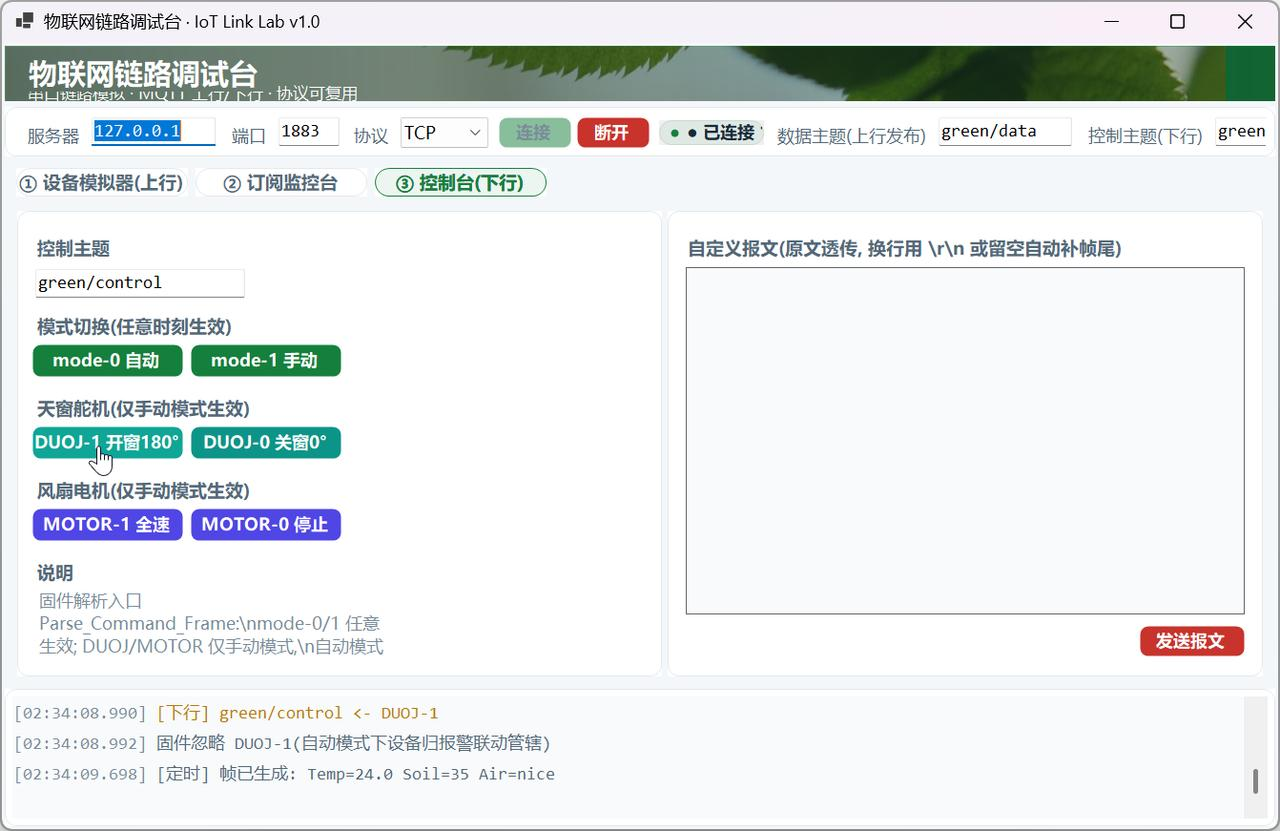
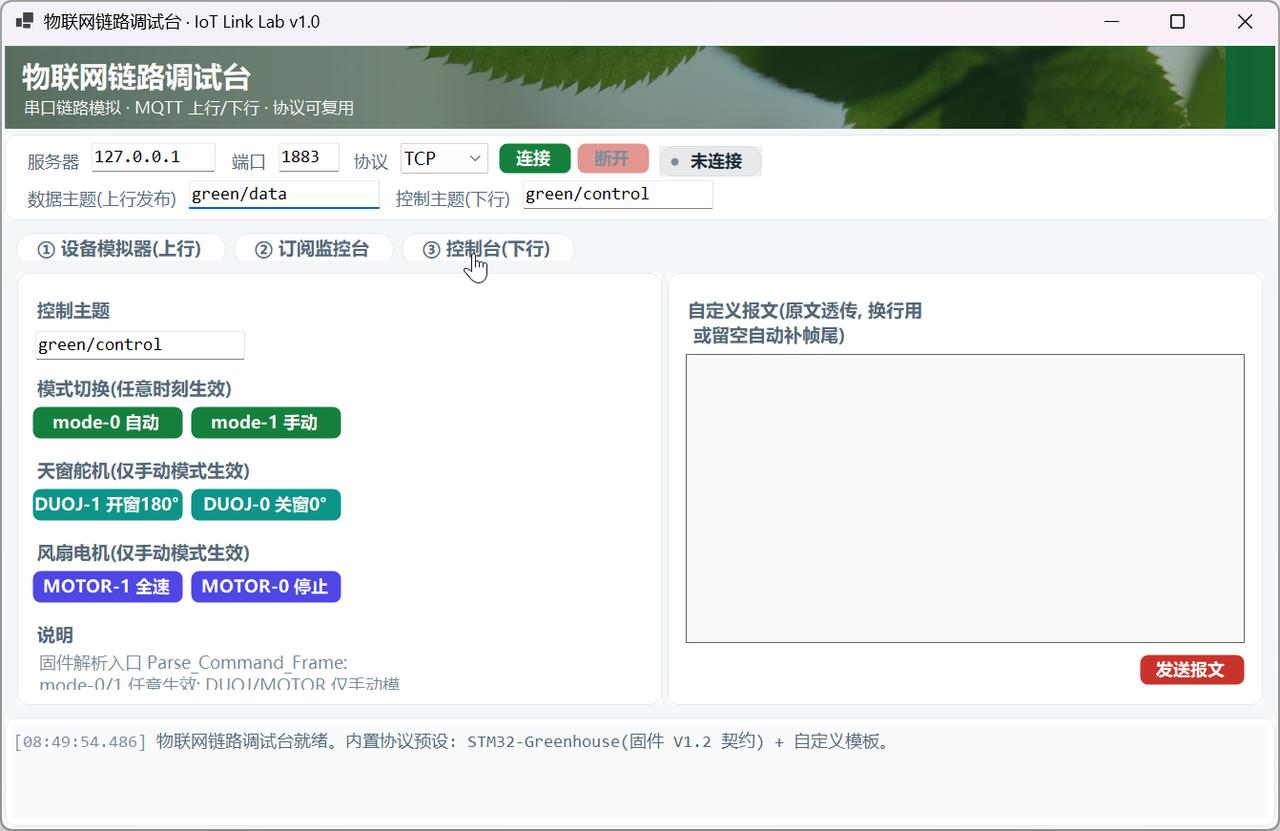
fix(测试工具): 布局错位重叠全面修复(150% DPI 实测迭代)
- 导航胶囊重影: Label 基类默认文本绘制与自绘叠加 → 新建 NavChip 控件(单绘制源, 宽度按文字实测自适应)
- 顶部横幅副标题被裁: 定高 64px 在 150% DPI 装不下两行 → 高度按字体实测计算(标题+副标题+呼吸空间), 文字绘于 Paint 内按实测高度堆叠居中
- 连接栏超宽截断('控制主题'只剩 g): 单行 FlowLayout 拆两行 TLP(连接参数行 + 数据/控制主题行), 主题框加宽至 200
- 状态徽章圆点与文字重叠: SetState 剥离 '● ' 前缀(圆点由控件绘制), 宽度按文字自适应
- 左列滚动/裁切: 数字网格 3×2 横排(高度砍半), 段标题边距收紧, raw 值不再被固定行高裁掉
- 帧模板编辑器移至右列第三视图区(随卡片宽度自适应换行 + 滚动兜底), 右列 32/38/30 三段, 彻底消除标题与内容间大空隙与模板框切行
- 监控台 400 条封顶后不再追加 → 滚动窗口移除最旧
- 控制台说明文字缩短为两行 + AutoSize
- 三页截图(1360 窗口)与最大化实测更新入库

diff --git a/05-Testing-Tool/WinFormsApp1/SimulatorTab.cs b/05-Testing-Tool/WinFormsApp1/SimulatorTab.cs
@@ -66,22 +66,20 @@ namespace IotLinkLab
             leftFlow.Controls.Add(_sceneCombo);
 
             leftFlow.Controls.Add(MakeSection("基础数值(场景选定后可微调)"));
-            var grid = new TableLayoutPanel { Width = 340, Height = 104, ColumnCount = 4, RowCount = 2, BackColor = Color.Transparent, Margin = new Padding(0, 2, 0, 2) };
-            for (int i = 0; i < 4; i++) grid.ColumnStyles.Add(new ColumnStyle(SizeType.Percent, 25f));
-            (_numTemp, _) = MakeNum("温度°C", 0, 100, 24, 0, grid, 0, 0);
-            (_numHumi, _) = MakeNum("湿度%RH", 0, 100, 62, 0, grid, 1, 0);
-            (_numSoil, _) = MakeNum("土壤%", 0, 100, 35, 0, grid, 2, 0);
-            (_numLight, _) = MakeNum("光照%", 0, 100, 72, 0, grid, 3, 0);
-            (_numRaw, _) = MakeNum("raw值", 0, 4095, 2080, 0, grid, 0, 1);
-            _numRaw.Width -= 20;
+            // 数字网格: 3 列 × 2 行, 标签与控件同行横排 —— 纵向高度砍半, 左列无需滚动
+            var grid = new TableLayoutPanel { AutoSize = true, AutoSizeMode = AutoSizeMode.GrowAndShrink, ColumnCount = 3, RowCount = 2, BackColor = Color.Transparent, Margin = new Padding(0, 2, 0, 2) };
+            for (int i = 0; i < 3; i++) grid.ColumnStyles.Add(new ColumnStyle(SizeType.AutoSize));
+            grid.RowStyles.Add(new RowStyle(SizeType.AutoSize));
+            grid.RowStyles.Add(new RowStyle(SizeType.AutoSize));
+            (_numTemp, _) = MakeNum("温度°C", 0, 100, 24, grid, 0, 0);
+            (_numHumi, _) = MakeNum("湿度%RH", 0, 100, 62, grid, 1, 0);
+            (_numSoil, _) = MakeNum("土壤%", 0, 100, 35, grid, 2, 0);
+            (_numLight, _) = MakeNum("光照%", 0, 100, 72, grid, 0, 1);
+            (_numRaw, _) = MakeNum("raw值", 0, 4095, 2080, grid, 1, 1);
             leftFlow.Controls.Add(grid);
 
-            leftFlow.Controls.Add(MakeSection("帧模板(占位符: {temp} {humi} {soil} {raw} {light} {servo} {motor} {mode} {air} {warning})"));
-            _templateBox = new TextBox { Multiline = true, Height = 56, Width = 320, Dock = DockStyle.None, Font = Theme.Mono(8.5F), Text = FrameCodec.DefaultTemplate };
-            leftFlow.Controls.Add(_templateBox);
-
             leftFlow.Controls.Add(MakeSection("发送控制"));
-            var sendRow = new FlowLayoutPanel { Width = 320, Height = 40, BackColor = Color.Transparent, Margin = new Padding(0, 2, 0, 0) };
+            var sendRow = new FlowLayoutPanel { AutoSize = true, AutoSizeMode = AutoSizeMode.GrowAndShrink, BackColor = Color.Transparent, Margin = new Padding(0, 2, 0, 0) };
             sendRow.Controls.Add(new Label { Text = "周期", AutoSize = true, Font = Theme.Ui(9F), Margin = new Padding(3, 8, 4, 0) });
             _numInterval = new NumericUpDown { Minimum = 1, Maximum = 60, Value = 1.5m, Increment = 0.5m, Width = 62, DecimalPlaces = 1, Font = Theme.Ui(9F) };
             sendRow.Controls.Add(_numInterval);
@@ -92,7 +90,7 @@ namespace IotLinkLab
             sendRow.Controls.Add(_numJitter);
             leftFlow.Controls.Add(sendRow);
 
-            var btnRow = new FlowLayoutPanel { Width = 320, Height = 40, BackColor = Color.Transparent, Margin = new Padding(0, 2, 0, 0) };
+            var btnRow = new FlowLayoutPanel { AutoSize = true, AutoSizeMode = AutoSizeMode.GrowAndShrink, BackColor = Color.Transparent, Margin = new Padding(0, 2, 0, 0) };
             _btnOnce = new RoundedButton { Text = "手动发一帧", Width = 110, FillColor = Theme.Teal };
             _btnOnce.Click += (s, e) => EmitFrame("手动");
             _btnStart = new RoundedButton { Text = "开始定时发送", Width = 130, FillColor = Theme.Primary };
@@ -100,8 +98,8 @@ namespace IotLinkLab
             btnRow.Controls.Add(_btnOnce); btnRow.Controls.Add(_btnStart);
             leftFlow.Controls.Add(btnRow);
 
-            leftFlow.Controls.Add(MakeSection("串口输出(可选, 配合虚拟串口对让真实上位机走完整链路)"));
-            var serRow = new FlowLayoutPanel { Width = 320, Height = 40, BackColor = Color.Transparent, Margin = new Padding(0, 2, 0, 0) };
+            leftFlow.Controls.Add(MakeSection("串口输出(可选, 配合虚拟串口对)"));
+            var serRow = new FlowLayoutPanel { AutoSize = true, AutoSizeMode = AutoSizeMode.GrowAndShrink, BackColor = Color.Transparent, Margin = new Padding(0, 2, 0, 0) };
             _chkSerial = new CheckBox { Text = "同步写串口", AutoSize = true, Font = Theme.Ui(9F), Margin = new Padding(0, 8, 8, 0) };
             _comPort = new ComboBox { DropDownStyle = ComboBoxStyle.DropDownList, Width = 90, Font = Theme.Ui(9F) };
             _comBaud = new ComboBox { DropDownStyle = ComboBoxStyle.DropDownList, Width = 80, Font = Theme.Ui(9F) };
@@ -114,18 +112,23 @@ namespace IotLinkLab
 
             // ---------- 右列: 三层预览 ----------
             var right = new Card { Dock = DockStyle.Fill, Padding = new Padding(Theme.Pad) };
-            var rightLayout = new TableLayoutPanel { Dock = DockStyle.Fill, RowCount = 4, BackColor = Color.Transparent };
-            rightLayout.RowStyles.Add(new RowStyle(SizeType.AutoSize));
-            rightLayout.RowStyles.Add(new RowStyle(SizeType.Percent, 34f));
-            rightLayout.RowStyles.Add(new RowStyle(SizeType.Percent, 22f));
-            rightLayout.RowStyles.Add(new RowStyle(SizeType.Percent, 44f));
+            var rightLayout = new TableLayoutPanel { Dock = DockStyle.Fill, RowCount = 6, ColumnCount = 1, BackColor = Color.Transparent };
+            rightLayout.RowStyles.Add(new RowStyle(SizeType.AutoSize));                 // ① 标题
+            rightLayout.RowStyles.Add(new RowStyle(SizeType.Percent, 32f));            // ① 帧预览
+            rightLayout.RowStyles.Add(new RowStyle(SizeType.AutoSize));                 // ② 标题
+            rightLayout.RowStyles.Add(new RowStyle(SizeType.Percent, 38f));            // ② 解析/JSON 预览
+            rightLayout.RowStyles.Add(new RowStyle(SizeType.AutoSize));                 // ③ 标题
+            rightLayout.RowStyles.Add(new RowStyle(SizeType.Percent, 30f));            // ③ 帧模板编辑
 
             rightLayout.Controls.Add(MakeSection("① 固件帧文本(串口视角)"), 0, 0);
             _framePreview = MakePreview(Theme.Mono(9.5F));
             rightLayout.Controls.Add(_framePreview, 0, 1);
-            rightLayout.Controls.Add(MakeSection("② 解析结果(与上位机同一套正则)"), 0, 2);
+            rightLayout.Controls.Add(MakeSection("② 解析结果与发布 JSON(与上位机同一套正则)"), 0, 2);
             _jsonPreview = MakePreview(Theme.Mono(9F));
             rightLayout.Controls.Add(_jsonPreview, 0, 3);
+            rightLayout.Controls.Add(MakeSection("③ 帧模板(可编辑, 占位符在 README; 随窗口宽度自适应换行)"), 0, 4);
+            _templateBox = new TextBox { Multiline = true, Dock = DockStyle.Fill, Font = Theme.Mono(8.5F), Text = FrameCodec.DefaultTemplate, ScrollBars = ScrollBars.Vertical };
+            rightLayout.Controls.Add(_templateBox, 0, 5);
             right.Controls.Add(rightLayout);
 
             root.Controls.Add(left, 0, 0);
@@ -136,7 +139,7 @@ namespace IotLinkLab
         private Label MakeSection(string text) => new()
         {
             Text = text, AutoSize = true, Font = Theme.Ui(9.5F, bold: true),
-            ForeColor = Theme.TextSecondary, Margin = new Padding(0, 8, 0, 4), BackColor = Color.Transparent
+            ForeColor = Theme.TextSecondary, Margin = new Padding(0, 6, 0, 3), BackColor = Color.Transparent
         };
 
         private TextBox MakePreview(Font font) => new()
@@ -145,11 +148,11 @@ namespace IotLinkLab
             Font = font, BorderStyle = BorderStyle.FixedSingle, ScrollBars = ScrollBars.Vertical
         };
 
-        private (NumericUpDown, Label) MakeNum(string label, decimal min, decimal max, decimal val, int pad, TableLayoutPanel grid, int col, int row)
+        private (NumericUpDown, Label) MakeNum(string label, decimal min, decimal max, decimal val, TableLayoutPanel grid, int col, int row)
         {
-            var wrap = new FlowLayoutPanel { AutoSize = true, BackColor = Color.Transparent, Margin = new Padding(0) };
-            wrap.Controls.Add(new Label { Text = label, AutoSize = true, Font = Theme.Ui(8.5F), ForeColor = Theme.TextSecondary, Margin = new Padding(0, 10, 0, 0), AutoEllipsis = true });
-            var num = new NumericUpDown { Minimum = min, Maximum = max, Value = val, Width = 64, Font = Theme.Ui(9.5F) };
+            var wrap = new FlowLayoutPanel { AutoSize = true, AutoSizeMode = AutoSizeMode.GrowAndShrink, WrapContents = false, BackColor = Color.Transparent, Margin = new Padding(0, 0, 14, 4) };
+            wrap.Controls.Add(new Label { Text = label, AutoSize = true, Font = Theme.Ui(9F), ForeColor = Theme.TextSecondary, Margin = new Padding(0, 7, 5, 0) });
+            var num = new NumericUpDown { Minimum = min, Maximum = max, Value = val, Width = 72, Font = Theme.Ui(9.5F) };
             num.ValueChanged += (s, e) => UpdatePreviews();
             wrap.Controls.Add(num);
             grid.Controls.Add(wrap, col, row);

diff --git a/05-Testing-Tool/WinFormsApp1/Form1.cs b/05-Testing-Tool/WinFormsApp1/Form1.cs
@@ -22,7 +22,7 @@ namespace IotLinkLab
         private StatusChip _chip = null!;
         private Panel _content = null!;
         private RichTextBox _logBox = null!;
-        private readonly Label[] _navItems = new Label[3];
+        private readonly NavChip[] _navItems = new NavChip[3];
         private int _activeTab;
 
         private string AppDataDir => Path.Combine(
@@ -48,33 +48,29 @@ namespace IotLinkLab
 
         private void BuildUi()
         {
+            // banner 高度按字体实测计算(标题+副标题+呼吸空间), 任何 DPI 下都不裁字
+            int bannerH = TextRenderer.MeasureText("物联网链路调试台", Theme.Ui(15F, bold: true)).Height
+                        + TextRenderer.MeasureText("串口链路模拟 · MQTT 上行/下行 · 协议可复用", Theme.Ui(8.5F)).Height + 30;
+
             var root = new TableLayoutPanel { Dock = DockStyle.Fill, RowCount = 5, BackColor = Theme.PageBg };
-            root.RowStyles.Add(new RowStyle(SizeType.Absolute, 64));
-            root.RowStyles.Add(new RowStyle(SizeType.Absolute, 58));
-            root.RowStyles.Add(new RowStyle(SizeType.Absolute, 44));
+            root.RowStyles.Add(new RowStyle(SizeType.Absolute, bannerH));
+            root.RowStyles.Add(new RowStyle(SizeType.Absolute, 96));    // 连接卡两行
+            root.RowStyles.Add(new RowStyle(SizeType.Absolute, 42));
             root.RowStyles.Add(new RowStyle(SizeType.Percent, 100));
-            root.RowStyles.Add(new RowStyle(SizeType.Absolute, 150));
+            root.RowStyles.Add(new RowStyle(SizeType.Absolute, 120));   // 日志
 
             // ---------- 1. 顶部横幅 ----------
             _banner = new Panel { Dock = DockStyle.Fill, BackColor = Theme.Primary };
             _banner.Paint += Banner_Paint;
-            var bannerTitle = new Label
-            {
-                Text = "物联网链路调试台", AutoSize = true, Font = Theme.Ui(15F, bold: true),
-                ForeColor = Color.White, BackColor = Color.Transparent, Location = new Point(18, 8)
-            };
-            var bannerSub = new Label
-            {
-                Text = "串口链路模拟 · MQTT 上行/下行 · 协议可复用", AutoSize = true, Font = Theme.Ui(8.5F),
-                ForeColor = Color.FromArgb(200, 255, 255, 255), BackColor = Color.Transparent, Location = new Point(20, 38)
-            };
-            _banner.Controls.Add(bannerTitle);
-            _banner.Controls.Add(bannerSub);
             root.Controls.Add(_banner, 0, 0);
 
-            // ---------- 2. 连接配置卡 ----------
-            var connCard = new Card { Dock = DockStyle.Fill, Padding = new Padding(10, 8, 10, 8) };
-            var connRow = new FlowLayoutPanel { Dock = DockStyle.Fill, BackColor = Color.Transparent, WrapContents = false };
+            // ---------- 2. 连接配置卡(两行: 连接参数 / 数据与控制主题), 避免单行超宽被窗缘截断 ----------
+            var connCard = new Card { Dock = DockStyle.Fill, Padding = new Padding(10, 6, 10, 6) };
+            var connGrid = new TableLayoutPanel { Dock = DockStyle.Fill, RowCount = 2, BackColor = Color.Transparent, AutoSize = true };
+            connGrid.RowStyles.Add(new RowStyle(SizeType.Percent, 50f));
+            connGrid.RowStyles.Add(new RowStyle(SizeType.Percent, 50f));
+            var connRow = new FlowLayoutPanel { Dock = DockStyle.Fill, BackColor = Color.Transparent, WrapContents = false, Margin = new Padding(0) };
+            var topicRow = new FlowLayoutPanel { Dock = DockStyle.Fill, BackColor = Color.Transparent, WrapContents = false, Margin = new Padding(0) };
 
             AddField(connRow, "服务器", _hostBox = new TextBox { Width = 130, Font = Theme.Mono(9.5F), Text = "127.0.0.1" });
             AddField(connRow, "端口", _portBox = new TextBox { Width = 64, Font = Theme.Mono(9.5F), Text = "1883" });
@@ -96,37 +92,25 @@ namespace IotLinkLab
             _chip.SetState("● 未连接", Theme.TextTertiary);
             connRow.Controls.Add(_chip);
 
-            AddField(connRow, "数据主题(上行发布)", _dataTopicBox = new TextBox { Width = 140, Font = Theme.Mono(9.5F), Text = "green/data" });
-            AddField(connRow, "控制主题(下行)", _controlTopicBox = new TextBox { Width = 130, Font = Theme.Mono(9.5F), Text = "green/control" });
+            AddField(topicRow, "数据主题(上行发布)", _dataTopicBox = new TextBox { Width = 200, Font = Theme.Mono(9.5F), Text = "green/data" });
+            AddField(topicRow, "控制主题(下行)", _controlTopicBox = new TextBox { Width = 200, Font = Theme.Mono(9.5F), Text = "green/control" });
 
-            connCard.Controls.Add(connRow);
+            connGrid.Controls.Add(connRow, 0, 0);
+            connGrid.Controls.Add(topicRow, 0, 1);
+            connCard.Controls.Add(connGrid);
             root.Controls.Add(connCard, 0, 1);
 
             // ---------- 3. 左侧导航 chips ----------
-            var nav = new FlowLayoutPanel { Dock = DockStyle.Fill, BackColor = Color.Transparent, WrapContents = false, Padding = new Padding(12, 6, 0, 0) };
+            var nav = new FlowLayoutPanel { Dock = DockStyle.Fill, BackColor = Color.Transparent, WrapContents = false, Padding = new Padding(12, 7, 0, 0) };
             string[] names = { "① 设备模拟器(上行)", "② 订阅监控台", "③ 控制台(下行)" };
             for (int i = 0; i < names.Length; i++)
             {
-                var chip = new Label
+                var chip = new NavChip
                 {
-                    Text = names[i], AutoSize = false, Size = new Size(180, 30),
-                    TextAlign = ContentAlignment.MiddleCenter, Font = Theme.Ui(9.5F, bold: true),
-                    BackColor = Color.White, ForeColor = Theme.TextSecondary,
-                    Margin = new Padding(0, 0, 8, 0), Cursor = Cursors.Hand
+                    Text = names[i],
+                    Margin = new Padding(0, 0, 8, 0)
                 };
                 int idx = i;
-                chip.Paint += (s, e) =>
-                {
-                    var g = e.Graphics; g.SmoothingMode = System.Drawing.Drawing2D.SmoothingMode.AntiAlias;
-                    using var path = RoundedButton.CreateRoundedPath(new Rectangle(0, 0, chip.Width - 1, chip.Height - 1), 15);
-                    using var b = new SolidBrush(idx == _activeTab ? Color.FromArgb(20, Theme.Primary) : Color.White);
-                    g.FillPath(b, path);
-                    using var pen = new Pen(idx == _activeTab ? Theme.Primary : Theme.CardStroke, 1.4f);
-                    g.DrawPath(pen, path);
-                    TextRenderer.DrawText(g, names[idx], chip.Font, chip.ClientRectangle,
-                        idx == _activeTab ? Theme.Primary : Theme.TextSecondary,
-                        TextFormatFlags.HorizontalCenter | TextFormatFlags.VerticalCenter);
-                };
                 chip.Click += (s, e) => SwitchTab(idx);
                 _navItems[i] = chip;
                 nav.Controls.Add(chip);
@@ -187,6 +171,23 @@ namespace IotLinkLab
                 Color.FromArgb(168, 10, 44, 28), Color.FromArgb(90, 10, 52, 32), 0f))
             {
                 g.FillRectangle(scrim, _banner.ClientRectangle);
+            }
+
+            // 标题+副标题按实测字体高度堆叠并整体垂直居中(DPI 安全, 不用绝对坐标)
+            var bannerRect = _banner.ClientRectangle;
+            using (var titleFont = Theme.Ui(15F, bold: true))
+            using (var subFont = Theme.Ui(8.5F))
+            {
+                int titleH = TextRenderer.MeasureText("物联网链路调试台", titleFont).Height;
+                int subH = TextRenderer.MeasureText("串口链路模拟 · MQTT 上行/下行 · 协议可复用", subFont).Height;
+                int blockH = titleH + 2 + subH;
+                int top = Math.Max(4, (bannerRect.Height - blockH) / 2);
+                TextRenderer.DrawText(g, "物联网链路调试台", titleFont,
+                    new Rectangle(18, top, bannerRect.Width - 36, titleH), Color.White,
+                    TextFormatFlags.Left | TextFormatFlags.VerticalCenter | TextFormatFlags.SingleLine | TextFormatFlags.NoPadding);
+                TextRenderer.DrawText(g, "串口链路模拟 · MQTT 上行/下行 · 协议可复用", subFont,
+                    new Rectangle(20, top + titleH + 2, bannerRect.Width - 40, subH), Color.FromArgb(205, 255, 255, 255),
+                    TextFormatFlags.Left | TextFormatFlags.VerticalCenter | TextFormatFlags.SingleLine | TextFormatFlags.NoPadding);
             }
         }
 

diff --git a/05-Testing-Tool/WinFormsApp1/Controls.cs b/05-Testing-Tool/WinFormsApp1/Controls.cs
@@ -99,7 +99,7 @@ namespace IotLinkLab
         }
     }
 
-    /// <summary>连接状态徽章(圆点 + 文本胶囊)。</summary>
+    /// <summary>连接状态徽章(圆点 + 文本胶囊)。宽度按文字实测自适应, 圆点由控件绘制, 文本不得自带 "● " 前缀。</summary>
     public class StatusChip : Control
     {
         private string _text = "未连接";
@@ -110,10 +110,27 @@ namespace IotLinkLab
             SetStyle(ControlStyles.AllPaintingInWmPaint | ControlStyles.OptimizedDoubleBuffer
                    | ControlStyles.UserPaint | ControlStyles.ResizeRedraw, true);
             Font = Theme.Ui(9F, bold: true);
-            Size = new Size(110, 26);
+            ResizeText();
         }
 
-        public void SetState(string text, Color dot) { _text = text; _dot = dot; Invalidate(); }
+        public void SetState(string text, Color dot)
+        {
+            _text = text.TrimStart('●', ' ').Trim();   // 兼容旧调用: 圆点统一由控件绘制
+            _dot = dot;
+            ResizeText();
+            Invalidate();
+        }
+
+        private void ResizeText()
+        {
+            int textW = TextRenderer.MeasureText(_text, Font).Width;
+            // 12 左留白 + 8 圆点 + 8 间距 + 文本 + 14 右留白
+            Width = 12 + 8 + 8 + textW + 14;
+            Height = Math.Max(26, Font.Height + 8);
+            Invalidate();
+        }
+
+        protected override void OnFontChanged(EventArgs e) { base.OnFontChanged(e); ResizeText(); }
 
         protected override void OnPaint(PaintEventArgs e)
         {
@@ -127,9 +144,64 @@ namespace IotLinkLab
                 using (var pen = new Pen(Color.FromArgb(40, _dot), 1))
                     g.DrawPath(pen, path);
             }
-            g.FillEllipse(new SolidBrush(_dot), 12, Height / 2 - 4, 8, 8);
-            TextRenderer.DrawText(g, _text, Font, new Rectangle(24, 0, Width - 26, Height), Theme.TextPrimary,
+            int dotY = Height / 2 - 4;
+            g.FillEllipse(new SolidBrush(_dot), 12, dotY, 8, 8);
+            TextRenderer.DrawText(g, _text, Font, new Rectangle(28, 0, Width - 30, Height), Theme.TextPrimary,
                 TextFormatFlags.Left | TextFormatFlags.VerticalCenter | TextFormatFlags.SingleLine);
+        }
+    }
+
+    /// <summary>
+    /// 导航胶囊(单绘制源): 继承 Control 而非 Label, 避免基类默认文本绘制与
+    /// OnPaint 自绘文本叠加造成重影; 宽度按文字实测自适应(DPI 安全)。
+    /// </summary>
+    public class NavChip : Control
+    {
+        private bool _selected;
+
+        [DesignerSerializationVisibility(DesignerSerializationVisibility.Hidden)]
+        public bool Selected
+        {
+            get { return _selected; }
+            set { _selected = value; Invalidate(); }
+        }
+
+        public NavChip()
+        {
+            SetStyle(ControlStyles.AllPaintingInWmPaint | ControlStyles.OptimizedDoubleBuffer
+                   | ControlStyles.UserPaint | ControlStyles.ResizeRedraw
+                   | ControlStyles.SupportsTransparentBackColor, true);
+            BackColor = Color.Transparent;
+            Cursor = Cursors.Hand;
+            Font = Theme.Ui(9.5F, bold: true);
+            ResizeForText();
+        }
+
+        private void ResizeForText()
+        {
+            int textW = TextRenderer.MeasureText(Text, Font).Width;
+            Size = new Size(textW + 36, Math.Max(30, Font.Height + 8));
+            Invalidate();
+        }
+
+        protected override void OnFontChanged(EventArgs e) { base.OnFontChanged(e); ResizeForText(); }
+        protected override void OnTextChanged(EventArgs e) { base.OnTextChanged(e); ResizeForText(); }
+
+        protected override void OnPaint(PaintEventArgs e)
+        {
+            var g = e.Graphics;
+            g.SmoothingMode = SmoothingMode.AntiAlias;
+            var rect = new Rectangle(0, 0, Width - 1, Height - 1);
+            using (var path = RoundedButton.CreateRoundedPath(rect, Height / 2))
+            {
+                using (var b = new SolidBrush(_selected ? Color.FromArgb(20, Theme.Primary) : Color.White))
+                    g.FillPath(b, path);
+                using (var pen = new Pen(_selected ? Theme.Primary : Theme.CardStroke, 1.4f))
+                    g.DrawPath(pen, path);
+            }
+            TextRenderer.DrawText(g, Text, Font, rect,
+                _selected ? Theme.Primary : Theme.TextSecondary,
+                TextFormatFlags.HorizontalCenter | TextFormatFlags.VerticalCenter | TextFormatFlags.SingleLine);
         }
     }
 }

diff --git a/05-Testing-Tool/WinFormsApp1/ControlTab.cs b/05-Testing-Tool/WinFormsApp1/ControlTab.cs
@@ -64,8 +64,8 @@ namespace IotLinkLab
             leftFlow.Controls.Add(Title("说明"));
             var note = new Label
             {
-                Text = "固件解析入口 Parse_Command_Frame:\nmode-0/1 任意生效; DUOJ/MOTOR 仅手动模式,\n自动模式下设备由报警联动管辖(发指令无效)。\n帧以 \r\n 结尾, 上位机透传时自动补全。",
-                AutoSize = false, Width = 380, Height = 84, Font = Theme.Ui(9F),
+                Text = "mode-0/1 任意时刻生效; DUOJ/MOTOR 仅手动模式,\n自动模式下由报警联动管辖(发指令无效)。",
+                AutoSize = true, MaximumSize = new Size(400, 0), Font = Theme.Ui(9F),
                 ForeColor = Theme.TextTertiary, BackColor = Color.Transparent
             };
             leftFlow.Controls.Add(note);
